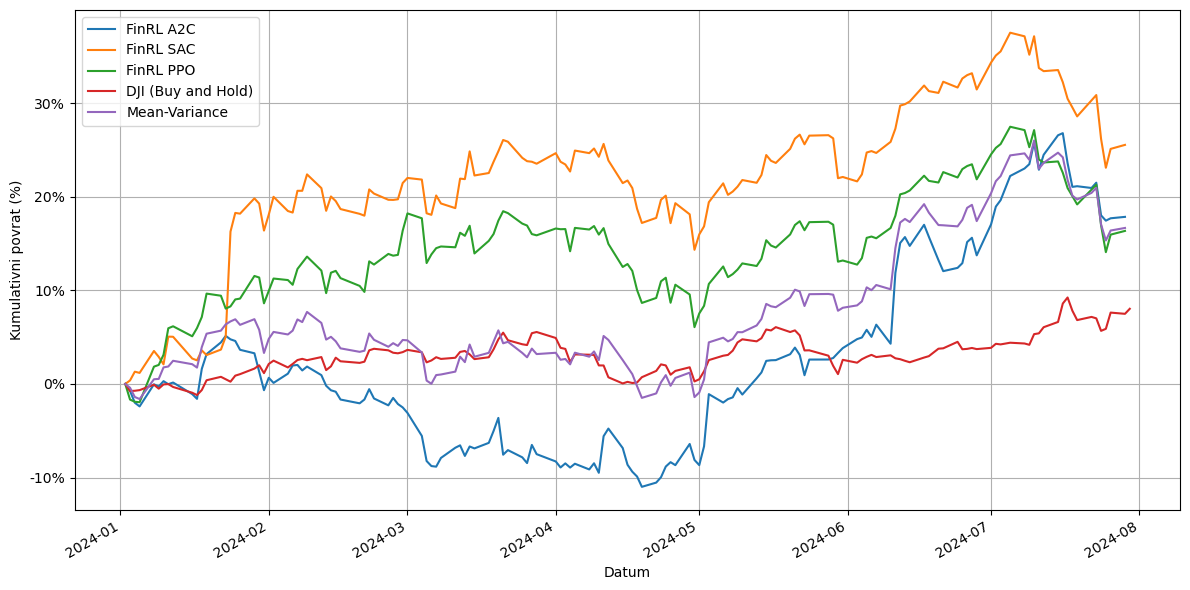
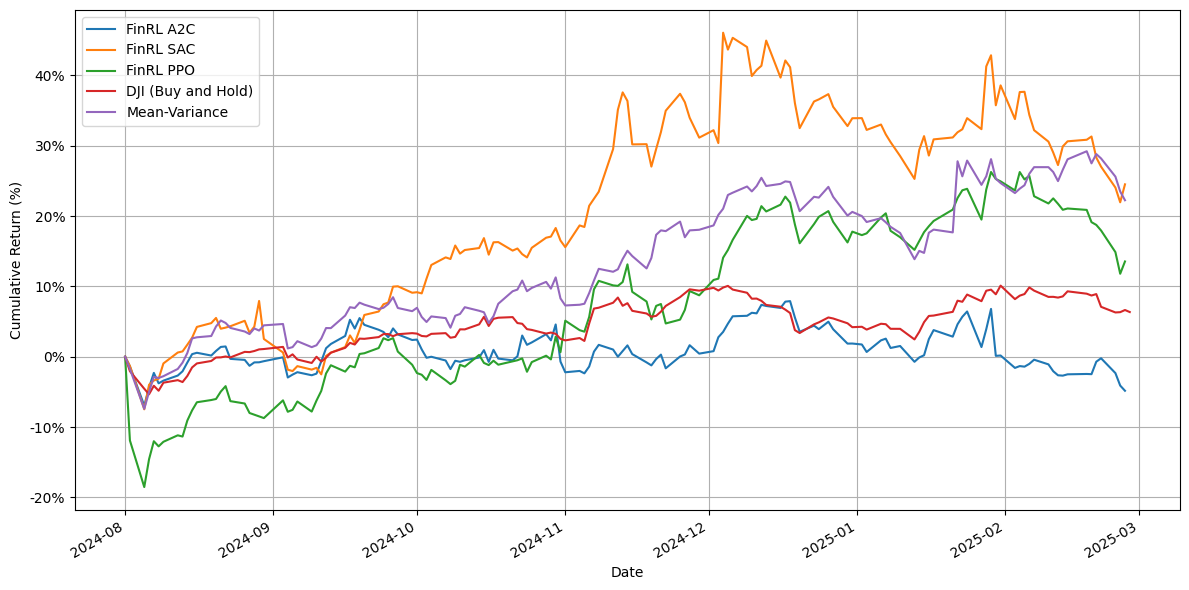
new readme and requirements

diff --git a/README.md b/README.md
@@ -2,9 +2,9 @@
 
 ## Overview
 
-PrimoGPT is a modular trading system developed as part of doctoral research titled "An Automated Stock Market Trading System Based on Deep Reinforcement Learning". The system combines Natural Language Processing (NLP) and Deep Reinforcement Learning (DRL) to support investment decisions, aiming to minimize risk and potential losses through deep financial market analysis.
+PrimoGPT is a modular trading system developed as part of doctoral research titled "An Automated Stock Market Trading System Based on Deep Reinforcement Learning". The system integrates advanced Natural Language Processing (NLP) and Deep Reinforcement Learning (DRL) to enhance decision-making in capital markets, aiming to minimize risk and potential losses through deep financial market analysis while addressing challenges like market volatility and data complexity.
 
-The research introduces two key components: PrimoGPT, a specialized model for generating NLP features from financial texts (news, reports, etc.), and PrimoRL, a deep reinforcement learning model for making trading decisions. The system has demonstrated significant performance in real-world testing, achieving notable returns on major technology stocks (41.19% on NFLX, 24.24% on AAPL, and 26.72% on AMZN) while maintaining high Sharpe ratios.
+The research introduces two key components: **PrimoGPT**, a specialized Transformer-based NLP model for extracting features from financial texts (news, reports, etc.), and **PrimoRL**, a deep reinforcement learning model for making adaptive trading decisions. The system has demonstrated superior performance over traditional strategies in experimental evaluations on leading technology stocks (AAPL, NFLX, MSFT, CRM, AMZN) during the testing period from August 1, 2024, to February 28, 2025, consistently yielding above-market returns and high Sharpe ratios.
 
 ## Research and Educational Purpose
 
@@ -13,45 +13,53 @@ This project was created primarily for research and educational purposes as part
 - The system requires technical knowledge to set up and run
 - Components are organized for research exploration rather than end-user experience
 
-Future iterations will focus on improving usability and creating more accessible interfaces as outlined in the development roadmap.
+Future iterations will focus on improving usability and creating more accessible interfaces as outlined in the development roadmap, building upon the research findings that demonstrated the system's potential to outperform established strategies.
 
 ## Innovation and Future Directions
 
-The core innovation of this project lies in its RAG (Retrieval Augmented Generation) system for feature generation from financial texts. This approach enables:
+The core innovation lies in its **PrimoGPT** module, which utilizes a custom RAG (Retrieval Augmented Generation) system for feature generation from financial texts. This approach enables:
 
-- **Contextual decision making**: By extracting structured features from unstructured financial news and reports, the system provides critical context for trading decisions
-- **Flexible feature generation**: The generated features can be utilized for various downstream tasks beyond trading, including risk assessment, portfolio optimization, and market analysis
-- **Early AI agent approach**: This prototype was developed in early 2024, before AI agent systems became popular, showing an early application of LLMs to financial analysis
+- **Contextual decision making**: Extracting structured features from unstructured financial news and reports provides critical context.
+- **Flexible feature generation**: Generated NLP features can be used for diverse downstream tasks.
+- **Early AI agent approach**: Developed in early 2024, it represents an early application of LLMs to financial analysis.
 
 ### Future Development Roadmap
 
 The next iteration of the system will focus on:
-- **Sentence embedding integration (some kind)**: Moving beyond predefined feature categories to a more flexible way of representing financial text
-- **Autonomous feature generation**: Allowing LLMs to create relevant features on their own based on all available inputs without predefined structures
-- **Component separation**: Separating PrimoGPT and PrimoRL into standalone libraries that can be developed and used independently
-- **Library development**: Converting the codebase into easy-to-use libraries that other developers can integrate into their projects
-- **User interface**: Creating a simple Streamlit-based UI that allows anyone to test and use the system without coding knowledge
-- **Primo Investing platform**: Using these libraries as the core of a new Primo Investing platform that will be publicly available
+- **Sentence embedding integration**: Moving towards more flexible representations of financial text.
+- **Autonomous feature generation**: Enabling LLMs to create relevant features independently.
+- **Component separation**: Developing PrimoGPT and PrimoRL as standalone libraries.
+- **Library development**: Creating easy-to-use libraries for integration.
+- **User interface**: Building a simple Streamlit-based UI for wider accessibility.
+- **Primo Investing platform**: Utilizing these libraries as the core for a public platform.
+- **Enhancing Architecture**: Incorporating NLP features directly into the PrimoRL reward function, expanding to other asset classes, and refining PrimoGPT's feature generation capabilities.
 
-This evolution will make the system more adaptable and better at finding important patterns in financial data that traditional methods might miss.
+This evolution aims to make the system more adaptable and effective at identifying significant patterns in financial data.
 
 ## Project Architecture
 
 The project consists of two main components:
 
 ### 1. PrimoGPT Module
-- Custom implementation of RAG (Retrieval Augmented Generation)
-- Feature generation pipeline for financial data processing
-- Fine-tuned LLM model based on Meta-Llama-3.1-8B-Instruct
-- Key components:
-  - `prepare_data.py`: Data collection and preprocessing pipeline (base on FinGPT Forecaster idea)
-  - `create_prompt.py`: Custom prompt engineering system (base on FinGPT Forecaster idea)
+- Custom implementation of RAG (Retrieval Augmented Generation).
+- Feature generation pipeline processing financial texts to extract NLP features (e.g., sentiment, relevance, potential price impact).
+- Fine-tuned LLM model based on **Meta-Llama-3.1-8B-Instruct**, trained using instruction-based datasets generated by GPT-4 and incorporating next-day stock price movements during training (not used during operational prediction).
+- Key implementation details in notebooks:
+  - `notebooks/1. Get and process data/`: Data collection (Finnhub, Yahoo Finance) and preprocessing pipeline (based on FinGPT Forecaster).
+  - `notebooks/2. Train PrimoGPT model/`: Model fine-tuning using Unsloth and QLoRA.
+  - `notebooks/5. Generate NLP features with PrimoGPT/`: NLP feature extraction pipeline using custom prompts via LangChain.
 
 ### 2. PrimoRL Module
-Three custom trading environments extending FinRL:
-- `env_primo_default`: Enhanced stock trading environment with custom logging (extended from FinRL)
-- `env_primo_default_nlp`: Extended environment with NLP capabilities (extended from FinRL)
-- `env_primorl`: New environment incorporating NLP features with custom reward function (extended from FinRL)
+- Deep Reinforcement Learning trading framework built using **OpenAI Gymnasium** and **FinRL**.
+- Implements **Stable Baselines 3** algorithms (A2C, SAC, PPO).
+- Utilizes **technical indicators** (MACD, Bollinger Bands, RSI, DX with 30-day period; SMA with 30 and 60-day periods) calculated from Yahoo Finance data.
+- Features three custom trading environments extending FinRL:
+  - `env_primo_default`: Enhanced stock trading environment with custom logging.
+  - `env_primo_default_nlp`: Extended environment with NLP capabilities.
+  - `env_primorl`: New environment incorporating NLP features into the state space and using a custom reward function balancing portfolio return and Sharpe ratio ( \( r(s,a,s') = C_P r_P + C_S S_T \) ).
+- Employs a continuous action space (-1 to 1) for flexible trade sizing.
+- Core implementation in `src/primorl/`.
+- Training and experimentation in `notebooks/6. PrimoRL trading with NLP features/`.
 
 ## Project Structure
 
@@ -70,48 +78,63 @@ src/
 └── primorl/                                 # Core PrimoRL trading environments
 ```
 
-Each notebook directory contains specific experiments and implementations:
-- **Get and process data**: Scripts for collecting financial data, preprocessing, and feature engineering
-- **Train PrimoGPT model**: Notebooks for training and fine-tuning the LLM model for financial text analysis
-- **Trading benchmark strategy**: Implementation and evaluation of traditional trading strategies as benchmarks
-- **FinRL benchmark strategy**: Implementation of FinRL trading strategies
-- **Generate NLP features**: Pipeline for extracting NLP features from financial texts using PrimoGPT
-- **PrimoRL trading with NLP**: Integration of NLP features into RL trading strategies with performance analysis
 
 ## Research Validation
 
-The system has been validated through extensive testing on multiple stocks (AAPL, NFLX, MSFT, CRM, AMZN) with:
-- Training period: 2021-09-01 to 2023-12-31
-- Testing period: 2024-01-01 to 2024-07-31
+The system has been validated through extensive testing on five technology stocks (AAPL, NFLX, MSFT, CRM, AMZN) with:
+- **Training period:** April 1, 2022, to July 31, 2024
+- **Testing period:** August 1, 2024, to February 28, 2025
+
+The PrimoGPT model was trained on a separate dataset (GOOGL, META, AMD, TSLA) to ensure generalizability.
 
 ## Results Comparison
 
-The following table presents the key performance metrics for all tested strategies:
+The effectiveness of PrimoRL, particularly when incorporating NLP features from PrimoGPT, was evaluated against traditional strategies (Buy & Hold, Momentum, Price-MA, MACD), market benchmarks (DJI), optimized strategies (Mean-Variance), and the baseline FinRL framework across the testing period.
 
-| Models          | Cumulative Return | Sharpe Ratio | Annual Volatility | Maximum Drawdown |
-|----------------|------------------|--------------|------------------|-----------------|
-| Mean-Variance  | 16.66%          | 1.55         | 18.48%          | -8.52%         |
-| DJI (B&H)      | 8.02%           | 1.40         | 10.00%          | -5.20%         |
-| FinRL (A2C)    | 17.84%          | 1.30         | 24.18%          | -15.33%        |
-| FinRL (SAC)    | 25.53%          | 1.74         | 24.54%          | -10.49%        |
-| FinRL (PPO)    | 16.34%          | 1.36         | 21.03%          | -10.50%        |
-| PrimoRL (A2C)  | 14.68%          | 1.31         | 19.75%          | -10.50%        |
-| PrimoRL (SAC)  | 22.19%          | 1.53         | 24.83%          | -10.07%        |
-| PrimoRL (PPO)  | **32.29%**      | **2.19**     | 23.60%          | **-7.47%**     |
+### Individual Stock Performance (PrimoRL vs. Best Alternative)
 
-The following graphs demonstrate the performance comparison between PrimoRL and FinRL implementations using different reinforcement learning algorithms (A2C, SAC, PPO) against traditional strategies (DJI Buy and Hold, Mean-Variance):
+| Stock | Model   | Cumulative Return | Sharpe Ratio | Annualized Volatility | Maximum Drawdown |
+| :---- | :------ | :---------------- | :----------- | :-------------------- | :--------------- |
+| AAPL  | PrimoRL | 12.20%            | 1.15         | 19.08%                | -12.14%          |
+|       | MOM     | 21.20%            | 2.16         | 16.22%                | -9.37%           |
+| NFLX  | PrimoRL | **62.82%**        | **2.83**     | **32.07%**            | **-7.74%**       |
+|       | B&H     | 58.12%            | 2.62         | 32.82%                | -10.90%          |
+| MSFT  | PrimoRL | **1.45%**         | **0.22**     | 21.24%                | -9.89%           |
+|       | FinRL   | 0.24%             | 0.12         | 21.03%                | -9.48%           |
+| CRM   | PrimoRL | **31.95%**        | 1.64         | 33.05%                | -14.55%          |
+|       | P-MA    | 22.36%            | 1.77         | 21.27%                | -11.53%          |
+| AMZN  | PrimoRL | **21.48%**        | **1.42**     | 26.60%                | -11.90%          |
+|       | FinRL   | 20.30%            | 1.35         | 26.64%                | -11.90%          |
+
+*PrimoRL generally outperformed benchmarks, showing significant gains especially on NFLX, CRM, and AMZN, though MOM strategy was superior for AAPL.*
+
+### Portfolio Performance (AAPL, NFLX, MSFT, CRM, AMZN)
+
+| Model         | Cumulative Return | Sharpe Ratio | Annualized Volatility | Maximum Drawdown |
+| :------------ | :---------------- | :----------- | :-------------------- | :--------------- |
+| Mean Variance | 22.24%            | 1.64         | 23.19%                | -9.22%           |
+| DJI (B&H)     | 6.35%             | 0.94         | 12.24%                | -6.91%           |
+| FinRL (A2C)   | -4.83%            | -0.25        | 23.55%                | -11.80%          |
+| FinRL (SAC)   | 24.50%            | 1.28         | 34.53%                | -16.50%          |
+| FinRL (PPO)   | 13.54%            | 0.87         | 31.38%                | -18.52%          |
+| PrimoRL (A2C) | 20.28%            | 1.10         | 35.05%                | -16.48%          |
+| PrimoRL (SAC) | **27.39%**        | **1.79**     | **25.55%**            | **-11.44%**      |
+| PrimoRL (PPO) | -8.03%            | -0.46        | 24.25%                | -11.73%          |
+
+*PrimoRL (SAC) demonstrated the best portfolio performance, achieving the highest cumulative return and Sharpe ratio with controlled volatility and drawdown, significantly outperforming FinRL variants and traditional benchmarks. This highlights the benefit of integrating NLP features, especially with the SAC agent.*
+
+The following graphs further illustrate the performance comparison:
+
+### FinRL Benchmark Performance
+<img src="figs/finrl.png" width="800" alt="FinRL Performance Comparison">
+
+
+*Cumulative returns of FinRL variants (A2C, SAC, PPO) compared to Mean-Variance and DJI benchmarks, highlighting the superior adaptability of RL-based strategies.*
 
 ### PrimoRL Performance
 <img src="figs/primorl.png" width="800" alt="PrimoRL Performance Comparison">
 
-PrimoRL shows consistently better performance across all RL algorithms, with PPO achieving the highest returns (>40% at peak). The system maintains superior performance compared to traditional strategies throughout the testing period.
-
-### FinRL Benchmark
-<img src="figs/finrl.png" width="800" alt="FinRL Performance Comparison">
-
-The baseline FinRL implementation, while still outperforming traditional strategies, shows lower overall returns and higher volatility compared to PrimoRL, particularly visible in the A2C implementation's performance.
-
-The comparison highlights PrimoRL's enhanced stability and improved returns, demonstrating the effectiveness of incorporating NLP features and custom reward functions in the trading environment.
+*Cumulative returns of PrimoRL variants (A2C, SAC, PPO) compared to DJI and Mean-Variance benchmarks, highlighting PrimoRL (SAC) as the optimal strategy with superior returns and controlled risk exposure.*
 
 ## Acknowledgments
 
@@ -121,18 +144,7 @@ This research builds upon and extends the excellent work of the AI4Finance Found
 
 The success of this research would not have been possible without these foundational contributions to the field of AI in finance.
 
-## Future Development
-
-This repository will undergo further enhancements following the doctoral defense, including:
-- Code optimization and performance improvements
-- Translation of remaining components to English
-- Detailed setup and execution documentation
-- Enhanced RAG system implementation
-- Extended documentation
 
 ## License and Disclaimer
 
 This project is licensed under the MIT License. This repository contains academic research code intended for educational purposes only. Nothing herein constitutes financial advice or trading recommendations. The trading strategies and analyses are experimental in nature and have not been validated for real-world trading. Users should be aware that trading involves substantial risk of loss and should always consult financial professionals before making investment decisions.
-
----
-Note: This repository is part of ongoing doctoral research. Further improvements and documentation will be added following the defense.
